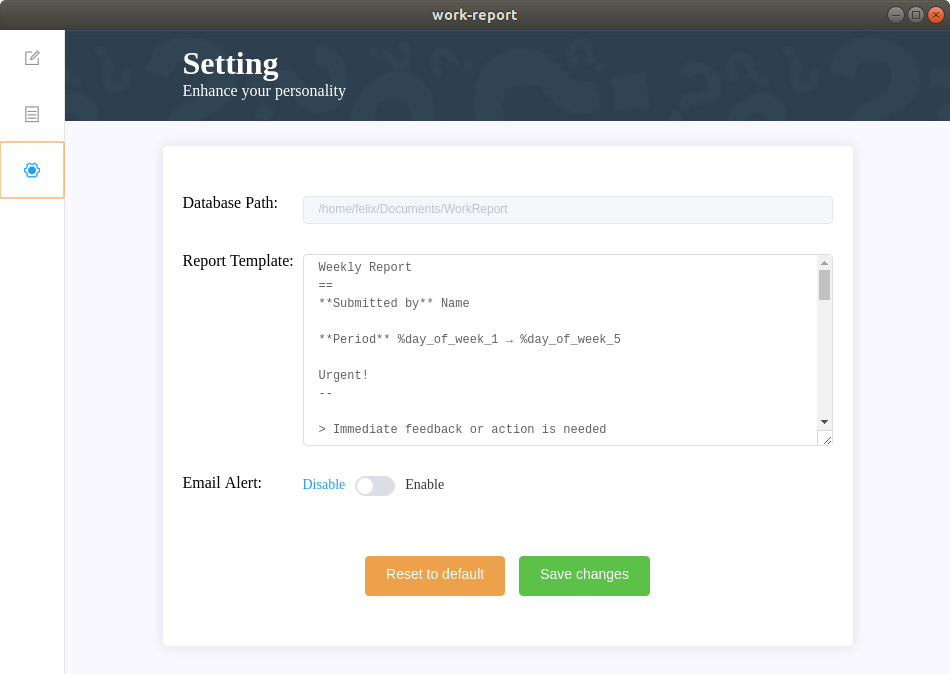
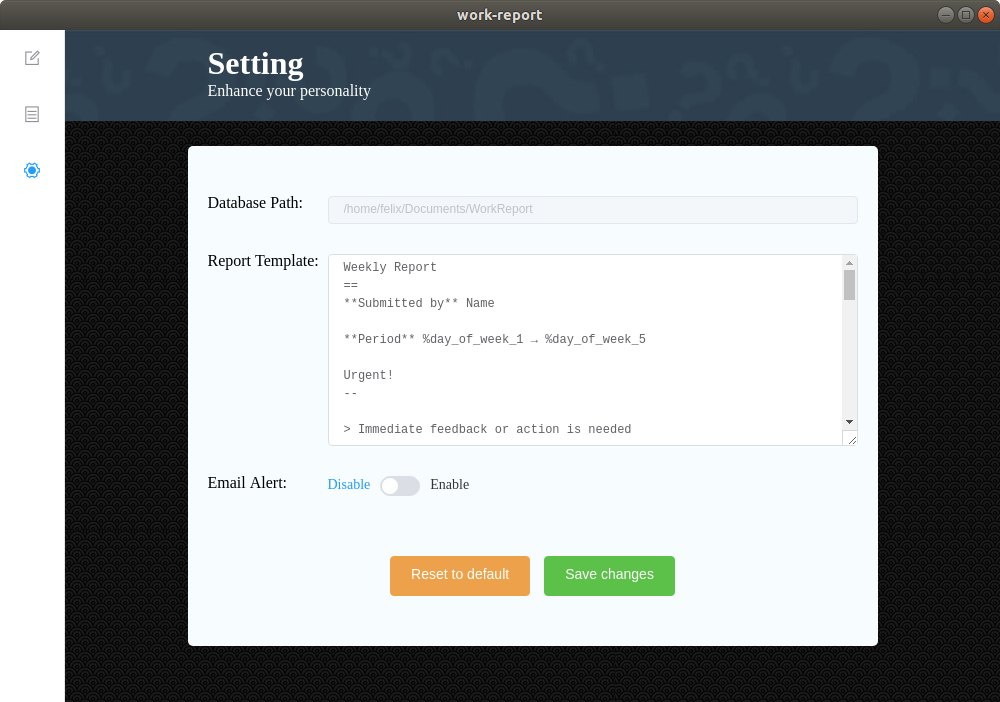
Editing page, create a side panel to show brief summary of current selected week.

diff --git a/work-report/src/renderer/pages/Edit.vue b/work-report/src/renderer/pages/Edit.vue
@@ -4,74 +4,108 @@
     title="Editing" 
     description="Create or edit your daily report"
     />
-    <div class="wrapper content-container">
-      <span class="saving-loader" v-show="saving"><i class="el-icon-loading"></i> Saving</span>
-      <!-- date -->
-      <div class="row-container">
-        <div class="left-container">
-          <span>Date:</span>
+    <span class="saving-loader" v-show="saving"><i class="el-icon-loading"></i> Saving</span>
+    <div class="editer-container">
+      <div class="left-penal">
+        <!-- date -->
+        <div class="row-container">
+          <div class="left-container">
+            <span>Date:</span>
+          </div>
+          <div class="right-container">
+            <el-date-picker
+              size="mini"
+              v-model="date"
+              type="date"
+              placeholder="Pick a date">
+            </el-date-picker>
+          </div>
         </div>
-        <div class="right-container">
-          <el-date-picker
+        <!-- tasks -->
+        <div class="row-container">
+          <div class="left-container">
+            <span>Tasks:</span>
+          </div>
+          <div class="right-container">
+            <el-input
+              type="textarea"
+              size="mini"
+              :rows="2"
+              placeholder="Breifly describe your tasks"
+              v-model="tasks">
+            </el-input>
+          </div>
+        </div>
+        <!-- working hours -->
+        <div class="row-container">
+          <div class="left-container">
+            <span>Working Hours:</span>
+          </div>
+          <div class="right-container">
+            <el-input-number 
+            v-model="workingHours" 
             size="mini"
-            v-model="date"
-            type="date"
-            placeholder="Pick a date">
-          </el-date-picker>
+            :min="1" :max="24"></el-input-number>
+          </div>
         </div>
-      </div>
-      <!-- tasks -->
-      <div class="row-container">
-        <div class="left-container">
-          <span>Tasks:</span>
-        </div>
-        <div class="right-container">
-          <el-input
-            type="textarea"
+        <!-- % complete -->
+        <div class="row-container">
+          <div class="left-container">
+            <span>% Complete:</span>
+          </div>
+          <div class="right-container">
+            <el-input-number 
+            v-model="progress" 
             size="mini"
-            :rows="2"
-            placeholder="Breifly describe your tasks"
-            v-model="tasks">
-          </el-input>
+            :min="0" :max="100"></el-input-number>
+          </div>
+        </div>
+        <!-- extra comments -->
+        <div class="row-container">
+          <div class="left-container">
+            <span>Extra Comments:</span>
+          </div>
+          <div class="right-container">
+            <el-input
+              type="textarea"
+              size="mini"
+              :rows="10"
+              placeholder="Some detailed comments and descriptions"
+              v-model="comments">
+            </el-input>
+          </div>
         </div>
       </div>
-      <!-- working hours -->
-      <div class="row-container">
-        <div class="left-container">
-          <span>Working Hours:</span>
-        </div>
-        <div class="right-container">
-          <el-input-number 
-          v-model="workingHours" 
-          size="mini"
-          :min="1" :max="24"></el-input-number>
-        </div>
-      </div>
-       <!-- % complete -->
-      <div class="row-container">
-        <div class="left-container">
-          <span>% Complete:</span>
-        </div>
-        <div class="right-container">
-          <el-input-number 
-          v-model="progress" 
-          size="mini"
-          :min="0" :max="100"></el-input-number>
-        </div>
-      </div>
-      <!-- extra comments -->
-      <div class="row-container">
-        <div class="left-container">
-          <span>Extra Comments:</span>
-        </div>
-        <div class="right-container">
-          <el-input
-            type="textarea"
-            size="mini"
-            :rows="10"
-            placeholder="Some detailed comments and descriptions"
-            v-model="comments">
-          </el-input>
+      <div class="right-penal">
+        <h2>Weekly Summary</h2>
+        <div v-for="(report, id) in weekData" :key="id">
+          <div v-if="report.data" 
+          class="summary-card" 
+          :class="{'summary-weekend' : report.is_weekend}">
+            <span class="summary-title">{{report.date}}</span>
+            <span class="summary-hours">{{report.data.working_hours}}h</span>
+            <table class="summary-table">
+              <tr>
+                <td><b>Tasks:</b></td>
+                <td>{{report.data.tasks}}</td>
+              </tr>
+              <tr>
+                <td><b>Progress:</b></td>
+                <td>{{report.data.progress}}%</td>
+              </tr>
+              <tr>
+                <td><b>Comments:</b></td>
+                <td>{{report.data.comments}}</td>
+              </tr>
+            </table>
+          </div>
+          <div v-else 
+          class="summary-card" 
+          :class="{'summary-weekend' : report.is_weekend}">
+             <span class="summary-title summary-empty">{{report.date}}</span>
+             <p v-if="report.is_weekend">Enjoy Your Weekend! :D</p>
+             <p v-else>It's empty here :(</p>
+          </div>
         </div>
       </div>
     </div>
@@ -89,7 +123,8 @@ export default {
       workingHours: 8,
       progress: 0,
       comments: "",
-      saving: false
+      saving: false,
+      weekData: []
     };
   },
   mounted() {
@@ -105,7 +140,7 @@ export default {
         );
       },
       function(val) {
-        if(lastDate == this.date) {
+        if (lastDate == this.date) {
           helpers.debounce(this.save, 500)();
         }
         lastDate = this.date;
@@ -117,6 +152,7 @@ export default {
   },
   methods: {
     loadReport() {
+      // load current day
       var data = Calendar.find({
         id: helpers.formatDateTime(this.date, "y-m-d")
       }).value();
@@ -130,6 +166,24 @@ export default {
         this.workingHours = 8;
         this.progress = 0;
         this.comments = "";
+      }
+      this.loadWeeklySummary();
+    },
+    loadWeeklySummary() {
+      // load current week
+      this.weekData = [];
+      for (var i = 1; i <= 7; i++) {
+        var d = helpers.getDayOfWeek(this.date, i);
+        var data = Calendar.find({
+          id: helpers.formatDateTime(d, "y-m-d")
+        }).value();
+        this.weekData.push({
+          date: `${
+            ["Sun", "Mon", "Tue", "Wed", "Thu", "Fri", "Sat"][d.getDay()]
+          } (${helpers.formatDateTime(d, "y-m-d")})`,
+          is_weekend: d.getDay() == 0 || d.getDay() == 6,
+          data
+        });
       }
     },
     save() {
@@ -160,6 +214,7 @@ export default {
           comments: this.comments
         }).write();
       }
+      that.loadWeeklySummary();
     }
   },
   components: {
@@ -167,7 +222,7 @@ export default {
   }
 };
 </script>
-<style scoped>
+<style lang="scss">
 .saving-loader {
   color: #1ea71e;
   position: absolute;
@@ -178,6 +233,72 @@ export default {
   padding: 5px 10px;
   border: 1px solid rgb(176, 255, 144);
   border-radius: 5px;
+}
+.editer-container {
+  display: flex;
+  margin-top: -25px;
+  height: calc(100vh - 91px);
+  .left-penal,
+  .right-penal {
+    overflow-y: auto;
+    padding: 25px;
+    flex-basis: 50%;
+  }
+  .left-penal {
+    // flex-grow: 2;
+
+    -webkit-box-shadow: 4px 3px 18px -6px rgba(0, 0, 0, 0.75);
+    -moz-box-shadow: 4px 3px 18px -6px rgba(0, 0, 0, 0.75);
+    box-shadow: 4px 3px 18px -6px rgba(0, 0, 0, 0.75);
+    background-color: #f8fcff;
+  }
+  .right-penal {
+    color: #fff;
+  }
+}
+
+.summary-card {
+  border: 2px solid #6d3d0c;
+  border-radius: 10px;
+  margin-bottom: 17px;
+  padding: 15px 5px 5px;
+  position: relative;
+  color: #e4e7ed;
+  .summary-title,
+  .summary-hours {
+    position: absolute;
+    top: -13px;
+    padding: 2.5px 12px;
+    background-color: #0c0c0c;
+    border: 2px solid #6d3d0c;
+    color: #53d633;
+    border-radius: 8px;
+  }
+  .summary-empty {
+    // background-color: #ea8b29 !important;
+    color: #d65454;
+  }
+  .summary-title {
+    left: 15px;
+  }
+  .summary-hours {
+    right: 15px;
+  }
+  .summary-table {
+    td {
+      vertical-align: initial;
+    }
+  }
+}
+.summary-weekend {
+  border-color: #1b560a;
+  .summary-title,
+  .summary-hours {
+    border-color: #1b560a;
+  }
+  .summary-empty {
+    color:#67c23a;
+  }
 }
 </style>
 

diff --git a/work-report/src/renderer/App.vue b/work-report/src/renderer/App.vue
@@ -23,7 +23,7 @@ export default {
 
 <style lang="scss">
 #app {
-  display: flex;
+  display: block;
   height: 100%;
   width: 100%;
   position: fixed;
@@ -33,11 +33,13 @@ export default {
     height: 100%;
     overflow-y: auto;
     &:nth-child(1) {
-      flex-basis: auto;
+      position: relative;
+      float: left;
     }
     &:nth-child(2) {
-      flex-grow: 2;
+      position: relative;
       background-color: rgb(249, 248, 255);
+      background-image: url("./assets/app_bg.jpg");
     }
   }
 }
@@ -46,7 +48,7 @@ export default {
   margin: auto;
 }
 .content-container {
-  background-color: #fff;
+  background-color: #f8fcff;
   padding: 20px;
   border-radius: 5px;
   margin-bottom: 25px;

diff --git a/work-report/src/renderer/pages/Report.vue b/work-report/src/renderer/pages/Report.vue
@@ -64,7 +64,7 @@ export default {
       );
       var loopArr = [];
       var count = 1;
-      for (var i = 0; i <= 7; i++) {
+      for (var i = 1; i <= 7; i++) {
         var d = helpers.getDayOfWeek(this.date, i);
         var data = Calendar.find({
           id: helpers.formatDateTime(d, "y-m-d")
